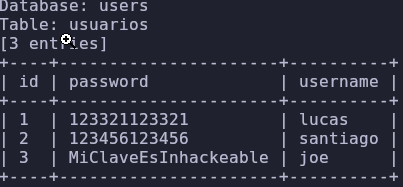
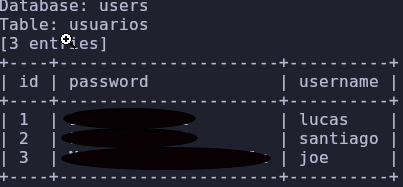
DockerLabsOK

Changed region(s): [[0.1489, 0.5615, 0.6849, 0.9091]]

diff --git a/writeup-ctfs/DockerLabs/Agua de Mayo.md b/writeup-ctfs/DockerLabs/Agua de Mayo.md
@@ -8,7 +8,7 @@ Complete: Yes
 EJPT: yes
 Created time: 5 de diciembre de 2024 21:18
 
-## Reconeixement
+## Reconeixement / Reconocimiento
 
 ### NMAP
 
@@ -30,13 +30,15 @@ sudo nmap -p80 --script=http-enum 172.17.0.2
 
 ![image.png](<imagenes/image 32.png>)
 
-Directori : /images/
+Directorio : /images/
 
-Trobem una imatge :
+Trobem una imatge / Encontramos una imagen :
 
 Agua_ssh
 
-Provem de veure si conté dades:
+## Anàlisis de vulnerabilitats / Análisis de vulnerabilidades
+
+Provem de veure si conté dades / Probamos a ver si contiene datos:
 
 ```bash
 steghide info agua_ssh.jpg
@@ -45,24 +47,27 @@ Demana password
 
 ![image.png](<imagenes/image 33.png>)
 
-Revisem la web per veure si trobem algo al codi:
+Revisem la web per veure si trobem algo al codi / Revisamos la web para ver si encontramos algo en el código:
 
 ```bash
 curl -s -X GET [http://172.17.0.2/](http://172.17.0.2/)
 ```
 
-Ens troba una última linea:
+Ens troba una última linea / Econtramos en la última linia:
 
 ++++++++++[>++++++++++>++++++++++>++++++++++>++++++++++>++++++++++>++++++++++>++++++++++++>++++++++++>+++++++++++>++++++++++++>++++++++++>++++++++++++>++++++++++>+++++++++++>+++++++++++>+>+<<<<<<<<<<<<<<<<<-]>--.>+.>--.>+.>---.>+++.>---.>---.>+++.>---.>+..>-----..>---.>.>+.>+++.>.
 
-Busquem un decode :
+Busquem un decode / Buscamos un Decoder:
 Codi BrainFuck
 
 Decodifiquem i surt:
 
-bebeaguaqueessano
+be**************no
 
-Conectem per SSH amb usuari "Agua" de la imatge i el password de la web "bebeaguaqueesmassano"
+## Explotació / Explotación
+
+Conectem per SSH amb usuari "Agua" de la imatge i el password de la web / Conectamos por SSH con usuario "Agua" y el password decodificado de Brainfuck
+
 
 ```bash
 ssh [agua@172.17.0.2](mailto:agua@172.17.0.2)
@@ -70,9 +75,13 @@ ssh [agua@172.17.0.2](mailto:agua@172.17.0.2)
 
 ![image.png](<imagenes/image 34.png>)
 
+Provem a buscar permisos amb Sudo / Probamos a buscar permisos con sudo
+
 ![image.png](<imagenes/image 35.png>)
 
-Podem executar "bettercap" sense password i com a root
+Podem executar "bettercap" sense password i com a root / 
+Podemos ejecutar "bettercap" sin passowrd como usuario root
+
 
 ```bash
 sudo bettercap
@@ -80,21 +89,22 @@ sudo bettercap
 
 ![image.png](<imagenes/image 36.png>)
 
-Veiem que es poden executar instruccions amb ! cmd
+Veiem que es poden executar instruccions amb `!cmd` / Vemos que podemos ejecutar comoandos como root con `!cmd`
 
-Veiem que ja som root
+
+## Escalada de privilegis / Escalada de privilegios
+
+Provem amb `!whoami` i veiem que ja som root / Probamos con `!whoami` y vemos que somos root
 
 ![image.png](<imagenes/image 37.png>)
 
-Per mirar de tenir una shell mes operativa done permis al bash :
+Per mirar de tenir una shell mes operativa done permis SUID a la bash / Para tener una shell mas operativa, damos permiso SUID a la bash con:
 
 ```
 ! chmod +s /bin/bash
-
 ```
 
-al sortir de bettercap provem la shell
+Sortim de bettercap i provem la shell / Salimos de bettercap y probamos la shell
 
-bin/bash -p
 
 ![image.png](<imagenes/image 38.png>)

diff --git a/writeup-ctfs/DockerLabs/Amor.md b/writeup-ctfs/DockerLabs/Amor.md
@@ -55,7 +55,8 @@ ffuf -w /usr/share/seclists/Discovery/Web-Content/directory-list-2.3-medium.txt 
 Provem hydra amb els usuarios trobats:
 
 Juan : no troba pass
-Carlota: babygirl
+
+Carlota: b******l
 
 provem conexio ssh
 
@@ -76,7 +77,7 @@ Mirem contingut amb Exiftool, pero no trobem res
 Trobem un altre usuari:
 
 oscar
-ubuntu
+
 
 Provem hydra
 
@@ -101,18 +102,18 @@ ZXNsYWNhc2FkZXBpbnlwb24=
 Decodifiquem cadena:
 echo "ZXNsYWNhc2FkZXBpbnlwb24=" | base64 -d; echo
 
-ZXNsYWNhc2FkZXBpbnlwb24=:eslacasadepinypon
+ZXNsYWNhc2FkZXBpbnlwb24= es************pon
 
 Probem aquest password amb l'altre usuari
 
 Oscar
-eslacasadepinypon
+es************pon
 
 Entrem per ssh
 
 ```bash
 ssh [oscar@172.17.0.2](mailto:oscar@172.17.0.2)
-Pass: eslacasadepinypon
+Pass: es************pon
 ```
 
 Busquem fitxers

diff --git a/writeup-ctfs/DockerLabs/Library.md b/writeup-ctfs/DockerLabs/Library.md
@@ -30,7 +30,7 @@ Trobem :
 
 ![image.png](<imagenes/image 68.png>)
 
-Index.php : JIFGHDS87GYDFIGD
+Al codi font de Index.php : J***********D
 
 Trobem
 
@@ -41,17 +41,18 @@ Trobem un script que no sembla que serveixi per res
 Provem força bruta amb el possible login de la web index.php
 
 ```bash
-hydra -L /usr/share/wordlists/rockyou.txt -p JIFGHDS87GYDFIGD 172.17.0.2 ssh -vV
+hydra -L /usr/share/wordlists/rockyou.txt -p J**********D 172.17.0.2 ssh -vV
 ```
 
-Pass: carlos
+User: c****s
 
 ![image.png](<imagenes/image 69.png>)
 
 Conectem per ssh :
 
-Usuari: carlos
-Password: JIFGHDS87GYDFIGD
+Usuari: c****s
+
+Password: J**************D
 
 ![image.png](<imagenes/image 70.png>)
 

diff --git a/writeup-ctfs/TheHackerLabs/Cyberpunk.md b/writeup-ctfs/TheHackerLabs/Cyberpunk.md
@@ -180,10 +180,6 @@ ftp> put cmd_Search.php
 ```
 
 ![image.png](<imagenes/Pasted image 20250223165848.png>)
-<<<<<<< HEAD
-=======
-
->>>>>>> 8ab9f2d (obsidianOK)
 
 Vemos que accedermos correctamente. 
 Accedemos al fichero `/etc/passwd` y enumeramos usuarios:
@@ -285,7 +281,7 @@ Se trata de un tipo de código llamado BrainFuck.
 Decodificamos el código con la web : 
 `https://www.dcode.fr/brainfuck-language`
 
-Nos da como resultado: `cyberpunk2077`
+Nos da como resultado: `c***********7`
 Comprobamos si ese es el password del usuario arasaka
 
 ```bash
@@ -351,7 +347,3 @@ bash -p
 ```
 
 
-# Bandera(s)
-
-> [!FLAG] `flag{B4nd3r4}`
-^bandera

diff --git a/writeup-ctfs/DockerLabs/Walking CMS.md b/writeup-ctfs/DockerLabs/Walking CMS.md
@@ -44,9 +44,8 @@ sudo wpscan --url [http://172.17.0.2/wordpress](http://172.17.0.2/wordpress) -P 
 
 ![image.png](<imagenes/image 43.png>)
 
-Password: love
+Password: l***
 
-mario/love
 
 Entrem al wp-admin amb les credencials
 entrem al editor de themes i creem un nou com a test.php amb la webshell:
@@ -60,7 +59,8 @@ Ens posen a l'espera i executem la webshell:
 Mire fitxer wp-config.php
 
 Database: username: wordpressuser
-Data base password: t9sH76gpQ82UFeZ3GXZS
+
+Data base password: t****************S
 
 Tractament TTY:
 

diff --git a/writeup-ctfs/DockerLabs/ShowTime.md b/writeup-ctfs/DockerLabs/ShowTime.md
@@ -202,9 +202,10 @@ Resultat:
 ![image.png](<imagenes/image 62.png>)
 
 Usuari: joe
-Password: chittychittybangbang
 
-Ara , dins de la maquina, canviem a usuari jo
+Password: chi************g
+
+Ara , dins de la maquina, canviem a usuari `joe`
 
 ```bash
 su joe

diff --git a/writeup-ctfs/DockerLabs/Upload.md b/writeup-ctfs/DockerLabs/Upload.md
@@ -60,8 +60,6 @@ sudo nc -lvnp 443
 
 ![image.png](<imagenes/image 3.png>)
 
-### Explotación posterior
-
 ### Escalada de privilegios
 
 Buscamos binarios SUID:

diff --git a/writeup-ctfs/DockerLabs/Trust.md b/writeup-ctfs/DockerLabs/Trust.md
@@ -60,7 +60,7 @@ Obtenemos password :
 
 Usuario: mario
 
-Password: chocolateExplotación posterior
+Password: c*******e
 
 ### Escalada de privilegios
 
